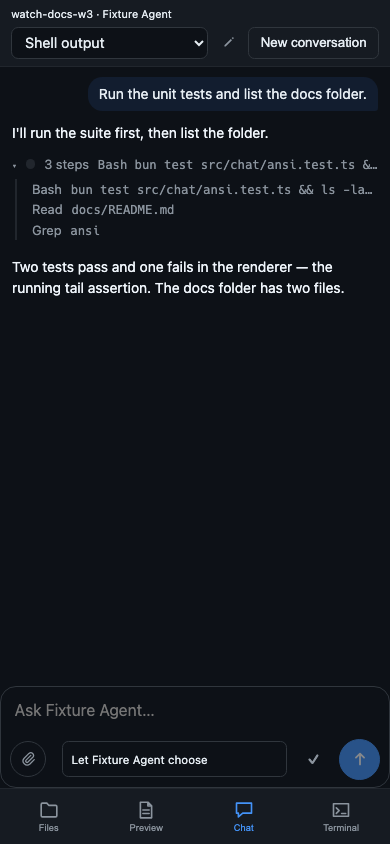
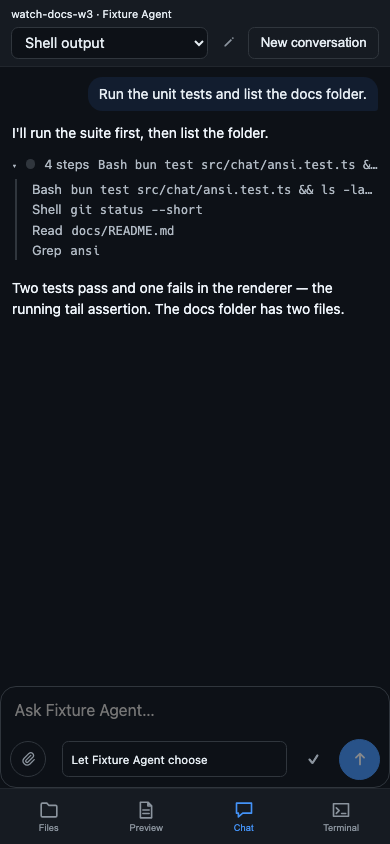
fix(chat): terminal look for OpenCode command items; cache counters in the totals repaint key
Codex review round 1 on #368. OpenCode's own shell steps normalize to a
`command` item rather than a bash tool, and that renderer branch never asked
for the terminal look; it does now, and the unit and e2e fixtures carry a
`command` item beside the tool so the OpenCode shape is exercised. The
folded-totals repaint key also covers cacheRead and cacheWrite, which the
per-model readout displays, so a restatement that only moved a cache count
repaints.

diff --git a/tests/e2e/chat-shell-output.e2e.ts b/tests/e2e/chat-shell-output.e2e.ts
@@ -47,6 +47,8 @@ const shellItems: ConversationItem[] = [
   { id: "message:u1", type: "user_message", createdAt: 1, text: "Run the unit tests and list the docs folder." },
   { id: "message:a1", type: "assistant_message", createdAt: 2, markdown: "I'll run the suite first, then list the folder.", completedAt: 2 },
   bash("tool:sh", 3, "bun test src/chat/ansi.test.ts && ls -la docs", "completed", TEST_OUTPUT),
+  // OpenCode's own shell step arrives as a `command` item rather than a tool.
+  { id: "tool:oc", type: "command", createdAt: 3.5, command: "git status --short", status: "completed", output: `${ESC}[31m M${ESC}[0m src/chat/ansi.ts\n${ESC}[32m??${ESC}[0m tests/e2e/chat-shell-output.e2e.ts`, exitCode: 0 },
   { id: "tool:rd", type: "tool", createdAt: 4, name: "read", status: "completed", input: JSON.stringify({ filePath: "docs/README.md" }), output: "# Docs\n\nStart here." },
   { id: "tool:gr", type: "tool", createdAt: 5, name: "grep", status: "completed", input: JSON.stringify({ pattern: "ansi", path: "src/chat" }), output: "src/chat/ansi.ts\nsrc/chat/ansi.test.ts" },
   { id: "message:a2", type: "assistant_message", createdAt: 6, markdown: "Two tests pass and one fails in the renderer — the running tail assertion. The docs folder has two files.", completedAt: 6 },
@@ -120,6 +122,14 @@ async function shellScenario(page: Page, request: APIRequestContext, testInfo: T
   // The wide table scrolls rather than wrapping.
   const overflows = await block.evaluate(element => element.scrollWidth > element.clientWidth);
   expect(overflows).toBe(true);
+
+  // The OpenCode-shaped command row gets the same look.
+  const commandRow = page.locator('[data-chat-item-id="tool:oc"]');
+  await commandRow.locator("> summary").click();
+  const commandBlock = commandRow.locator(shellOutput).first();
+  await expect(commandBlock).toBeVisible();
+  await expect(commandBlock.locator(".ansi-fg-1").first()).toHaveText(" M");
+  expect(await commandBlock.evaluate(element => getComputedStyle(element).whiteSpace)).toBe("pre");
 }
 
 test.describe("shell output reads as the terminal renders it", () => {

diff --git a/src/chat/timeline-renderer.test.ts b/src/chat/timeline-renderer.test.ts
@@ -1750,6 +1750,9 @@ describe("tool output is streamed live and bounded when finished", () => {
     expect(stream.textContent!.split("\n")).toHaveLength(12);
     expect(stream.textContent).toContain("line 30");
     expect(stream.textContent).not.toContain("line 18\n");
+    // OpenCode's own shell step is a `command` item, not a bash tool: it
+    // gets the terminal look the same way.
+    expect(stream.classList.contains("chat-tool-terminal")).toBe(true);
   });
 
   test("a fast-completed shell retains inspectable output behind the existing bound", () => {
@@ -1766,5 +1769,6 @@ describe("tool output is streamed live and bounded when finished", () => {
     expect(more.querySelector("summary")!.textContent).toContain("Show 18 more lines");
     expect(more.hasAttribute("open")).toBe(false);
     expect(more.textContent).toContain("line 30");
+    expect(host.querySelectorAll('[data-chat-item-id="tool:fast-shell"] pre.chat-tool-terminal')).toHaveLength(2);
   });
 });

diff --git a/src/chat/ui.ts b/src/chat/ui.ts
@@ -1792,7 +1792,7 @@ export function initChat(api = new ChatApiClient()): void {
     // Folded totals are a fresh object per fold, so they are keyed by what
     // they say: a restated carrier that moved the cost repaints, one that
     // did not is a no-op.
-    const totalsKey = totals ? `${totals.costUsd}\u0001${totals.models.map(model => `${model.id}:${model.costUsd}:${model.input}:${model.output}`).join(",")}` : undefined;
+    const totalsKey = totals ? `${totals.costUsd}\u0001${totals.models.map(model => `${model.id}:${model.costUsd}:${model.input}:${model.output}:${model.cacheRead}:${model.cacheWrite}`).join(",")}` : undefined;
     if (report === paintedPlanReport && totalsKey === paintedTotalsKey && sameStanding) return;
     paintedPlanReport = report;
     paintedTotalsKey = totalsKey;

diff --git a/src/chat/timeline-renderer.ts b/src/chat/timeline-renderer.ts
@@ -892,7 +892,7 @@ export function renderItem(item: ConversationItem, open: boolean, activeRequest:
   // of truncating; "Shell" names the step and the command ellipsizes beside it.
   if (item.type === "command") {
     const auto = autoOpen(item.status, item.output) && !readerClosed;
-    return activityShell(id, item.status, "Shell", item.command, deferClosed && !open && !auto ? "" : renderActivityOutput(item.output, item.status), open, auto, readerClosed, stamp);
+    return activityShell(id, item.status, "Shell", item.command, deferClosed && !open && !auto ? "" : renderActivityOutput(item.output, item.status, true), open, auto, readerClosed, stamp);
   }
   // Reasoning has no streamed output to auto-open for; it opens only when the
   // reader says so.
